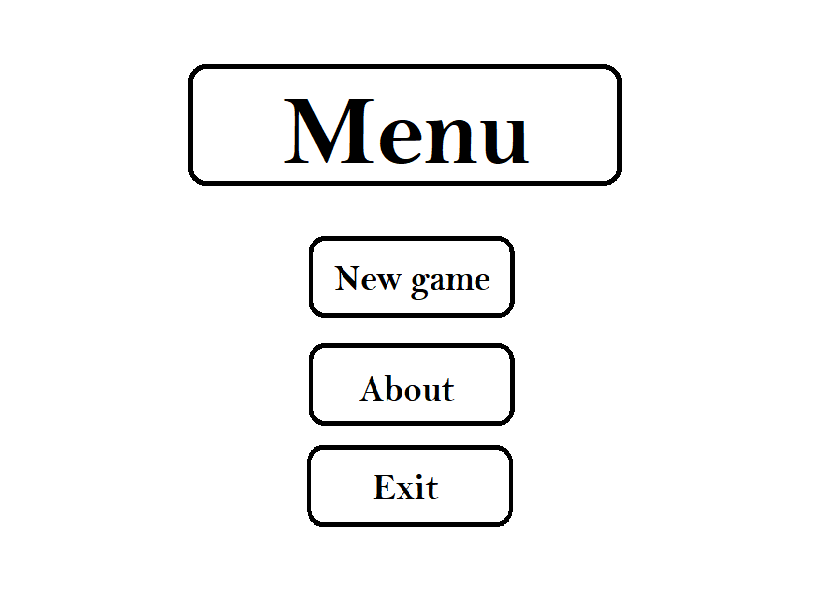
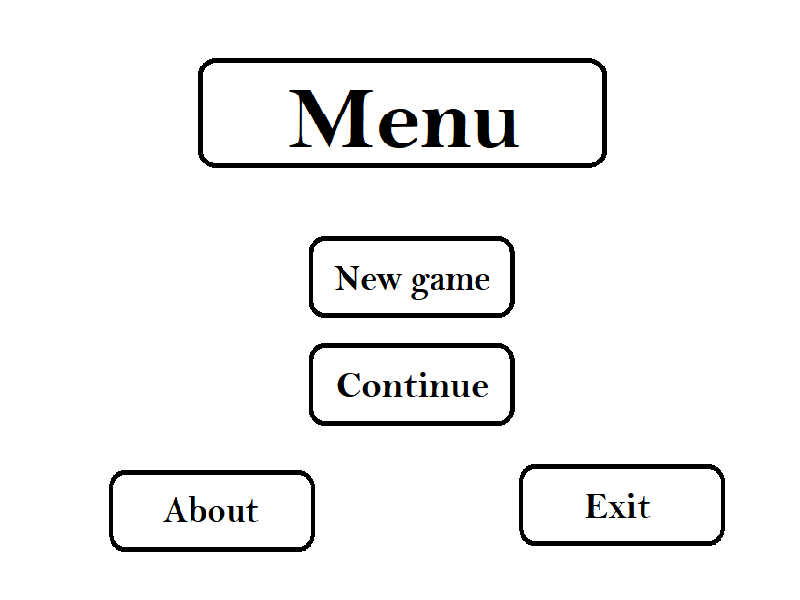
add menu

diff --git a/main.py b/main.py
@@ -4,6 +4,7 @@ import random
 import os
 import math
 
+pygame.init()
 print(os.path.abspath(os.getcwd()))
 path = os.path.abspath(os.getcwd())
 
@@ -36,6 +37,7 @@ screen = pygame.display.set_mode((X,Y))
 pygame.display.set_caption('Game')
 wall = pygame.image.load('./wallpaper.png')
 menu = pygame.image.load('./menu.png')
+menubutton = pygame.image.load('./menubutton.png')
 player = pygame.image.load('./ball.png')
 player = pygame.transform.scale(player,(player_width,player_height))
 tile = pygame.image.load('./tile.png')
@@ -86,7 +88,6 @@ class Camera:
     if dx > 1000 or dy > 800: return False
     return True
 
-
 class Tile:
   def __init__(self, x, y, type ="tile") -> None:
     self.x = x
@@ -126,10 +127,7 @@ class Tile:
       screen.blit(tile, (dx-tile_size/2,dy-tile_size/2))
     else:
       screen.blit(crate, (dx-tile_size/2,dy-tile_size/2))
-      
-
-  
-
+    
 class Ballistic:
   def __init__(self,x , y, v, vD, o,bullet, grenade = False, dmg = 30) -> None:
     self.x = x
@@ -206,7 +204,6 @@ class Ballistic:
     return False
 
   def checkHit(self, a,t):
-    
     if self.hidden == True: self.vD =999
     if self.exploded: return
     if type(a) == list and len(a)!=0:
@@ -265,9 +262,6 @@ class Item:
       if self.name=="star": o.dmg=o.dmg+50
       elif self.name=="gold": o.gold= o.gold+1
       else: o.hitpoint=o.hitpoint+50
-
-    
-
 
 class Character:
   def __init__(self, x, y, t, w,hitpoint = 100) -> None:
@@ -478,7 +472,7 @@ class Character:
       if self.angle == f["aSA"]: self.angle = f["aA"]
     self.vD = self.angle
     self.v = player_vmax
-p = Character(733,833, "player","ak47")
+p = Character(450,550, "player","ak47")
 
 def cameraMove():
   nx = p.x - 400
@@ -500,9 +494,7 @@ def initGame(e,t,b,item):
     e.append(temp2)
     e.append(temp)
 
-
-  for i in range(80):
-    
+  for i in range(80): 
       
     if (i!=15 and i!=16 and i!=25 and i!=24 and i!=35 and i!=36 and i!=46 and i!=47 and i!=57 and i!=58):
       wall_ver1 = Tile( (i+1)*tile_size, 300)
@@ -527,8 +519,6 @@ def initGame(e,t,b,item):
       t.append(wall_hor3)
       t.append(wall_hor4)
       t.append(wall_hor5)
-      
-      
     # room 1:
     if (i>=10 and i<=12):
       wall1= Tile(750,i*tile_size)
@@ -549,7 +539,6 @@ def initGame(e,t,b,item):
   wall1= Tile(750,900)
   t.append(box1)
     
-      
   temp1 = Tile(1000, 1000,'crate')
   t.append(temp1)
 
@@ -561,94 +550,113 @@ def initGame(e,t,b,item):
   item.append(temp1)
   item.append(temp2)
   
+  p.x=500
+  p.y=450
+  
 def resetGame(e,t,b,item):
   e = []
   t = []
   b = []
   item = []
-initGame(e,t,b,item)
-
-def Run():
-  clock = pygame.time.Clock()
-  running = True
+  # initGame(e,t,b,item)
   
-  pygame.init()
-  while(running):
-    clock.tick(60)
-    pygame.display.flip() 
-    if (False):
-      screen.blit(menu,(0,0),(camera.x,camera.y,800,600))
-      timeEnd=time.time()
-      if (timeEnd-time.time()>4): running=False
-    else:
-      # clock.tick(60)
-      if p.hitpoint <= 0: break
-      pos = pygame.mouse.get_pos()
-      # check tile
-      for i in t:
-        i.playerCollide(p,player_height)
-        for j in e:
-          i.playerCollide(j,player_height)
-      p.playerCollide(e)
-      p.update()
-      p.shoot(pos,b)
-      for i in e:
-        if i.hitpoint <=0:
-          e.remove(i)
-          del i
-          continue
-        i.attack(p)
-        i.update()
-      # check bullet
-      for i in b:
-        timex = time.time()
-        i.checkHit(t,timex)
-        i.checkHit(p,timex)
-        i.checkHit(e,timex)
-        i.move()
+
+clock = pygame.time.Clock()
+running = True
+menubar = True
+
+
+while(running):
+  clock.tick(60)
+  pygame.display.flip() 
+  if (menubar):
+    screen.blit(menu,(0,0),(camera.x,camera.y,800,600))
+    for i in pygame.event.get():
+      # if i.type == pygame.MOUSEBUTTONDOWN:
+      #   menubar=True
+      if i.type == pygame.MOUSEBUTTONUP:
         
-      cameraMove()
+        pos = pygame.mouse.get_pos()
+        if (pos[0]>=340 and pos[0]<=550 and pos[1]>=240 and pos[1]<=310): 
+          # resetGame(e,t,b,item)
+          initGame(e,t,b,item)
+          menubar = False
+  else: 
+    clock.tick(60)
+    
+    if p.hitpoint <= 0: break
+    pos = pygame.mouse.get_pos()
+    # if (pos[0]<100 and pos[1]<50): 
+    #   menubar=True
+    #   pass
+    # check tile
+    for i in t:
+      i.playerCollide(p,player_height)
+      for j in e:
+        i.playerCollide(j,player_height)
+    p.playerCollide(e)
+    p.update()
+    p.shoot(pos,b)
+    for i in e:
+      if i.hitpoint <=0:
+        e.remove(i)
+        del i
+        continue
+      i.attack(p)
+      i.update()
+    # check bullet
+    for i in b:
+      timex = time.time()
+      i.checkHit(t,timex)
+      i.checkHit(p,timex)
+      i.checkHit(e,timex)
+      i.move()
       
-      screen.blit(wall,(0,0),(camera.x,camera.y,800,600))
-      for i in e:
+    cameraMove()
+    
+    screen.blit(wall,(0,0),(camera.x,camera.y,800,600))
+    for i in e:
+      i.draw(camera)
+    p.draw(pos)
+    # draw tile/bullet
+    for i in t:
+      if i.hidden:
+        t.remove(i)
+        del i
+        continue
+      i.draw(camera)
+
+    for i in item:
+      i.checkCollide(p)
+      if i.state==False: del i
+      else: 
         i.draw(camera)
-      p.draw(pos)
-      # draw tile/bullet
-      for i in t:
-        if i.hidden:
-          t.remove(i)
-          del i
-          continue
-        i.draw(camera)
+    for i in b:
+      i.draw(camera)
 
-      for i in item:
-        i.checkCollide(p)
-        if i.state==False: del i
-        else: 
-          i.draw(camera)
-      for i in b:
-        i.draw(camera)
+      if i.vD == 999: 
+        b.remove(i)
+        del i
+    # renderitem
 
-        if i.vD == 999: 
-          b.remove(i)
-          del i
-      # renderitem
+    # pygame.display.flip()
+    
+    for i in pygame.event.get():
+      if i.type == pygame.MOUSEBUTTONDOWN:
+        p.shooting = True
+      if i.type == pygame.MOUSEBUTTONUP:
+        click=pygame.mouse.get_pos()
+        if (click[0]<100 and click[1]<50): 
+          menubar=True
+          pass
+        p.shooting = False
+        
+      key = pygame.key.get_pressed()
+      p.keyDown(key)
 
-      # pygame.display.flip()
-      
-      for i in pygame.event.get():
-        if i.type == pygame.MOUSEBUTTONDOWN:
-          p.shooting = True
-        if i.type == pygame.MOUSEBUTTONUP:
-          p.shooting = False
-        key = pygame.key.get_pressed()
-        p.keyDown(key)
-
-        if i.type == pygame.KEYUP:
-          p.keyUp(i.key)
-        if i.type == pygame.QUIT:
-          running = False
-     
-  pygame.quit()
-  
-Run()
+      if i.type == pygame.KEYUP:
+        p.keyUp(i.key)
+      if i.type == pygame.QUIT:
+        running = False
+    screen.blit(menubutton,(0,0))
+pygame.quit()
